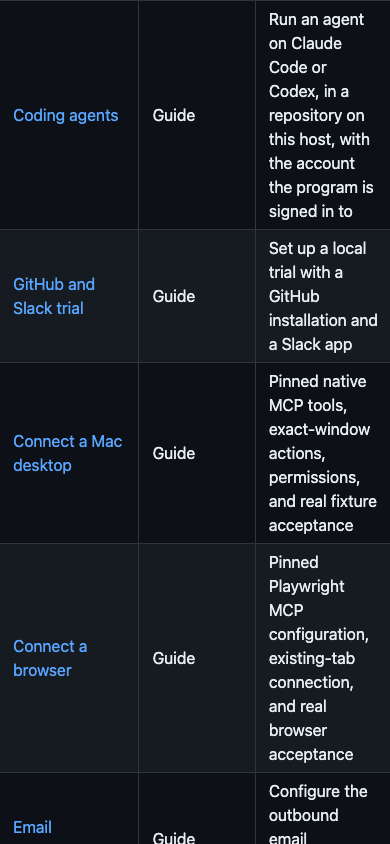
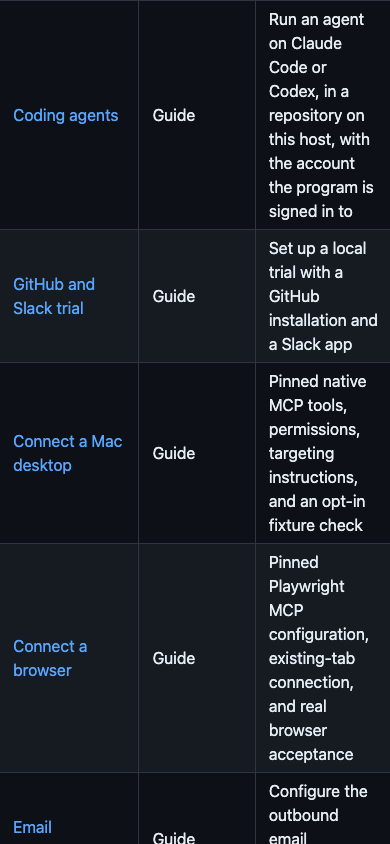
docs: show native desktop qualifications in reviewed captures

Changed region(s): [[0.6769, 0.4929, 0.9846, 0.6469]]

diff --git a/docs/assets/session-audit-2026-11-16/README.md b/docs/assets/session-audit-2026-11-16/README.md
@@ -222,3 +222,23 @@ Public-source research, all23 images inspected by Codex:
 - [web-status-before-dark-390x844](public-web/web-status-before-dark-390x844.png)
 - [web-status-before-light-1280x800](public-web/web-status-before-light-1280x800.png)
 - [web-status-before-light-390x844](public-web/web-status-before-light-390x844.png)
+
+
+Desktop review qualifications, updated screenshots inspected by Codex:
+
+- [desktop-index-after-dark-1280x800](desktop/desktop-index-after-dark-1280x800.png)
+- [desktop-index-after-dark-390x844](desktop/desktop-index-after-dark-390x844.png)
+- [desktop-index-after-light-1280x800](desktop/desktop-index-after-light-1280x800.png)
+- [desktop-index-after-light-390x844](desktop/desktop-index-after-light-390x844.png)
+- [desktop-status-after-dark-1280x800](desktop/desktop-status-after-dark-1280x800.png)
+- [desktop-status-after-dark-390x844](desktop/desktop-status-after-dark-390x844.png)
+- [desktop-status-after-light-1280x800](desktop/desktop-status-after-light-1280x800.png)
+- [desktop-status-after-light-390x844](desktop/desktop-status-after-light-390x844.png)
+- [desktop-native-after-dark-1280x800](desktop-review/desktop-native-after-dark-1280x800.png)
+- [desktop-native-after-dark-390x844](desktop-review/desktop-native-after-dark-390x844.png)
+- [desktop-native-after-light-1280x800](desktop-review/desktop-native-after-light-1280x800.png)
+- [desktop-native-after-light-390x844](desktop-review/desktop-native-after-light-390x844.png)
+- [desktop-native-before-dark-1280x800](desktop-review/desktop-native-before-dark-1280x800.png)
+- [desktop-native-before-dark-390x844](desktop-review/desktop-native-before-dark-390x844.png)
+- [desktop-native-before-light-1280x800](desktop-review/desktop-native-before-light-1280x800.png)
+- [desktop-native-before-light-390x844](desktop-review/desktop-native-before-light-390x844.png)
